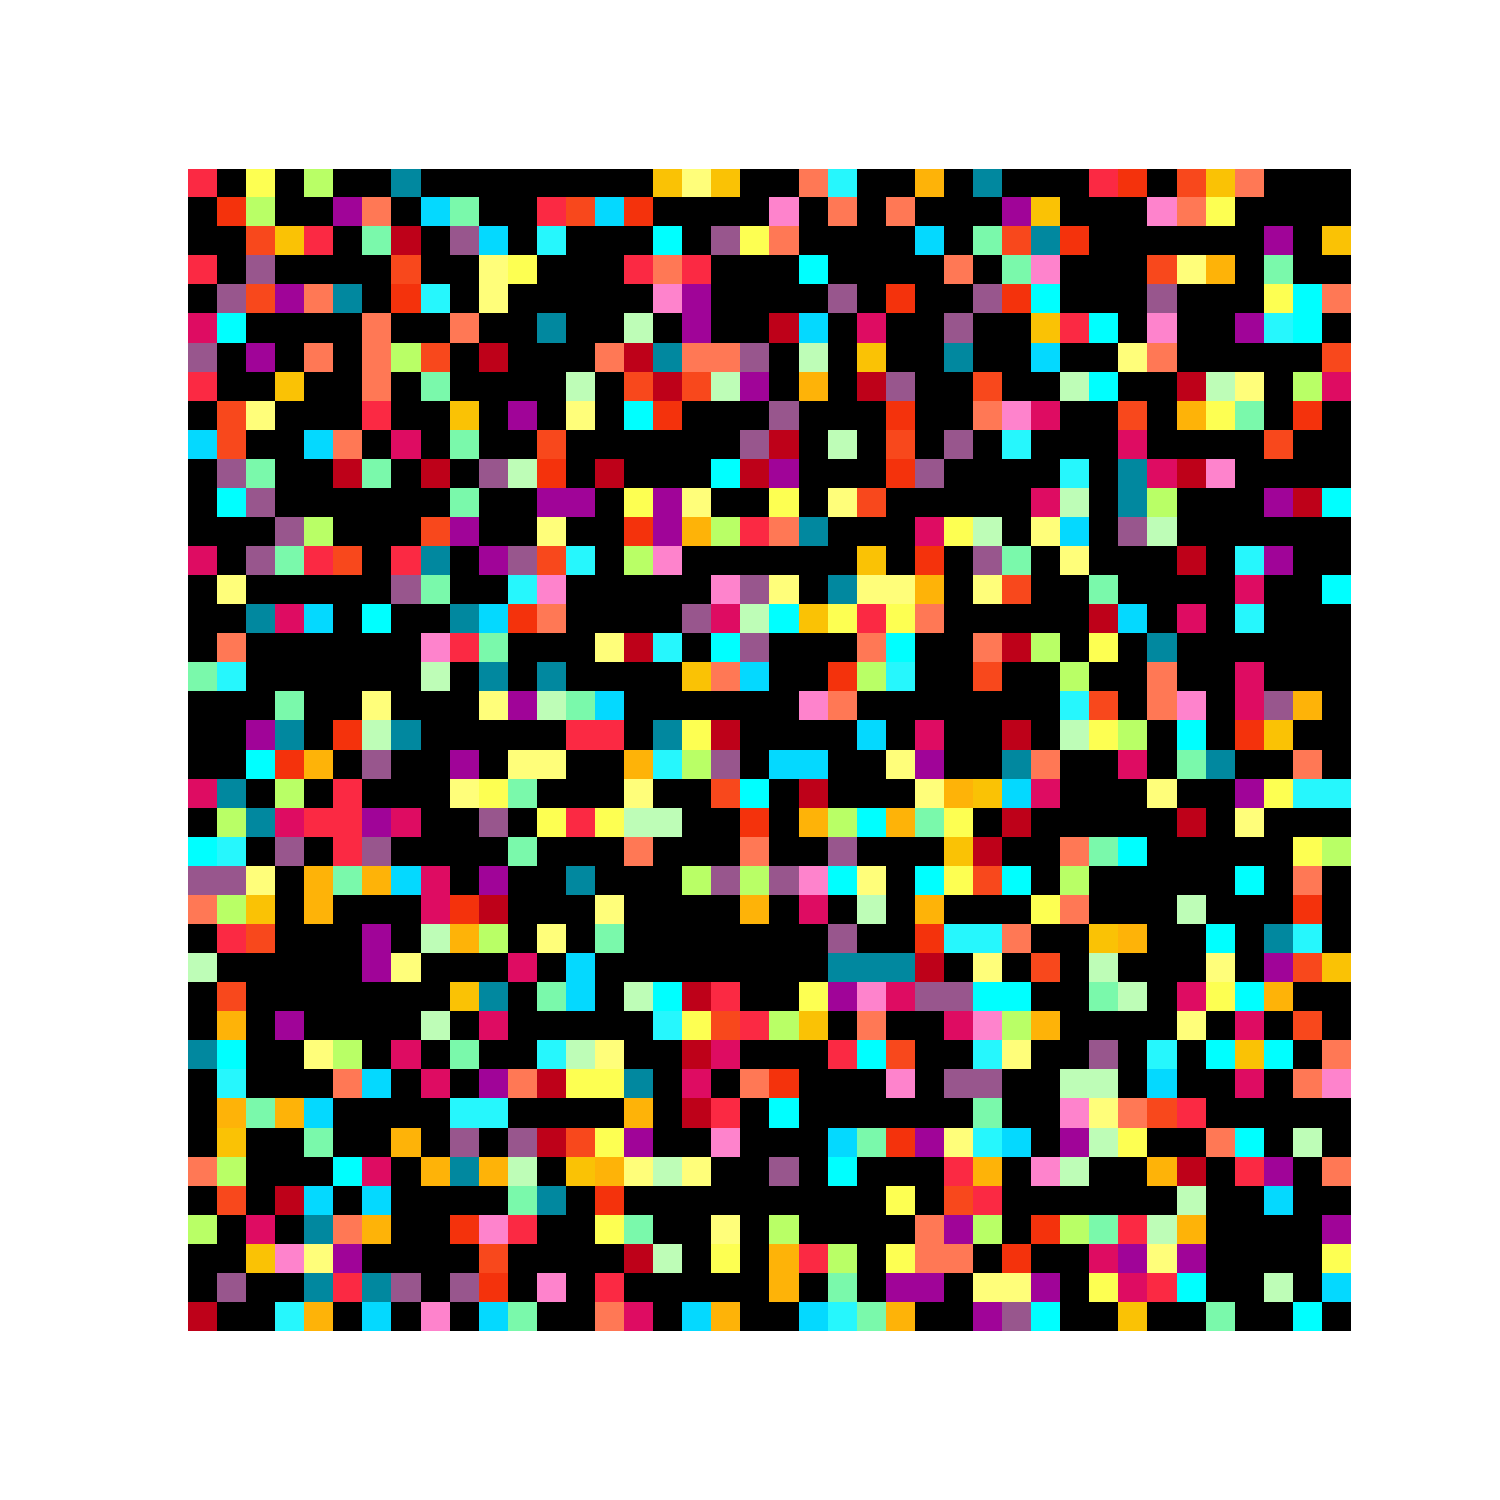
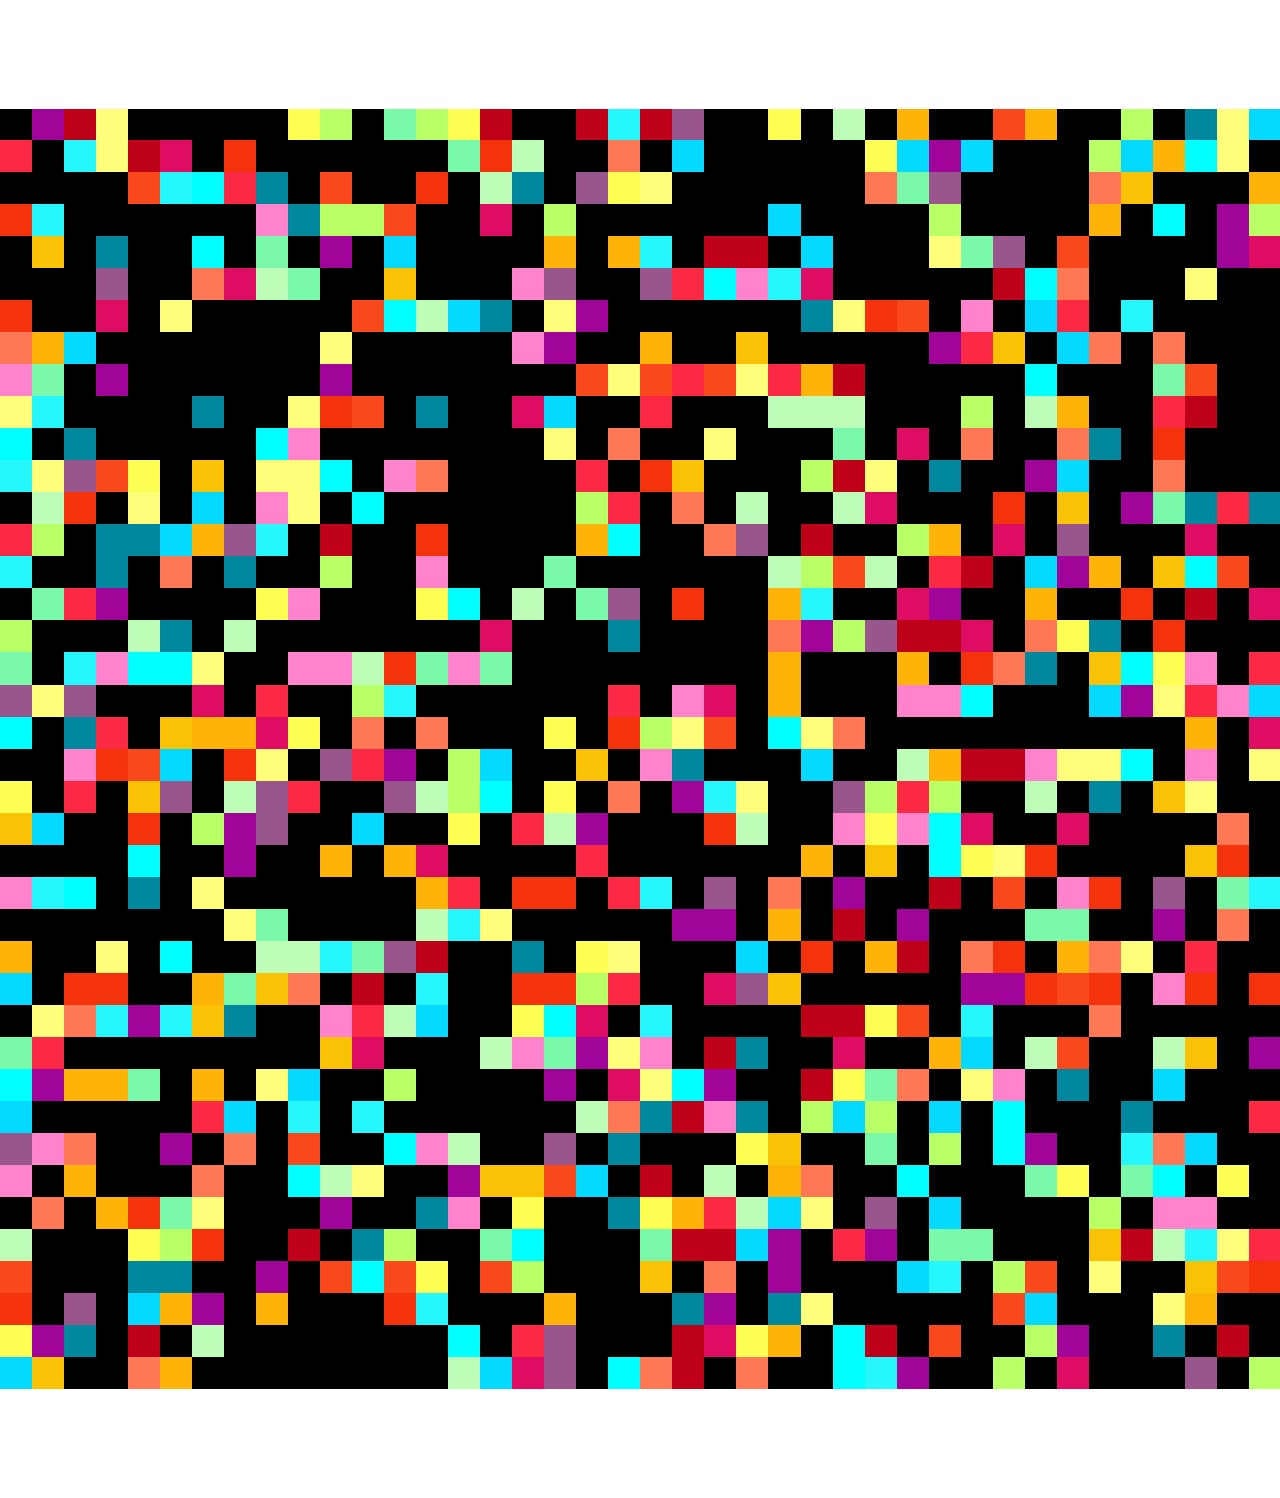
Included overlaying hilbert curves

diff --git a/spectrumSquare.py b/spectrumSquare.py
@@ -3,6 +3,7 @@ import seaborn as sns
 import numpy as np
 import random
 from matplotlib import colors
+import hilbert
 
 
 color_list = ['cyan', 'goldenrod', 'seafoam green', 'light yellow', 'scarlet',
@@ -24,16 +25,25 @@ def generate_random_color():
     return idx
 
 
-def main(n=40):
+def plot_hilbert_curve(n, ax):
+    locs = hilbert.generate_locations(n)
+    for i in xrange(len(locs)-1):
+        start, finish = locs[i], locs[i+1]
+        xs, ys = zip(start,finish)
+        ax.plot(xs, ys, 'white', alpha=0.4, lw='1')
+
+
+def main(n=32):
     mat = np.zeros((n,n))
     for i in xrange(n):
         for j in xrange(n):
             mat[i][j] = generate_random_color()
-    print mat
-    plt.figure(figsize=(15,15))
-    art = plt.imshow(mat, interpolation='nearest', cmap=cmap, norm=norm)
-    plt.gca().xaxis.set_visible(False)
-    plt.gca().yaxis.set_visible(False)
+    fig = plt.figure(figsize=(15,15), frameon=False)
+    ax = fig.add_axes([0,0,1,1])
+    ax.axis('off')
+
+    art = ax.imshow(mat, interpolation='nearest', cmap=cmap, norm=norm)
+    plot_hilbert_curve(n, ax)
     plt.show()
 
 if __name__ == '__main__':

diff --git a/hilbert.py b/hilbert.py
@@ -1,0 +1,37 @@
+# Taken from code at https://github.com/dentearl/simpleHilbertCurve
+########################################
+
+def d2xy(n, d):
+    """
+    take a d value in [0, n**2 - 1] and map it to
+    an x, y value (e.g. c, r).
+    """
+    assert(d <= n**2 - 1)
+    t = d
+    x = y = 0
+    s = 1
+    while (s < n):
+        rx = 1 & (t / 2)
+        ry = 1 & (t ^ rx)
+        x, y = rot(s, x, y, rx, ry)
+        x += s * rx
+        y += s * ry
+        t /= 4
+        s *= 2
+    return x, y
+
+def rot(n, x, y, rx, ry):
+    """
+    rotate/flip a quadrant appropriately
+    """
+    if ry == 0:
+        if rx == 1:
+            x = n - 1 - x
+            y = n - 1 - y
+        return y, x
+    return x, y
+########################################
+
+def generate_locations(n):
+    locs = [d2xy(n,d) for d in xrange(n**2)]
+    return locs

diff --git a/Readme.MD b/Readme.MD
@@ -4,4 +4,4 @@ This repo is dedicated to small projects which use math in some way to generate 
 
 _spectrumSquare.py_ randomly selects a color from a palette and places it on a grid. Inspired by Ellsworth Kelly.
 
-    - Possible extension: Adding on Hilbert Curves
+    - Possible extension: ~~Adding on Hilbert Curves~~
